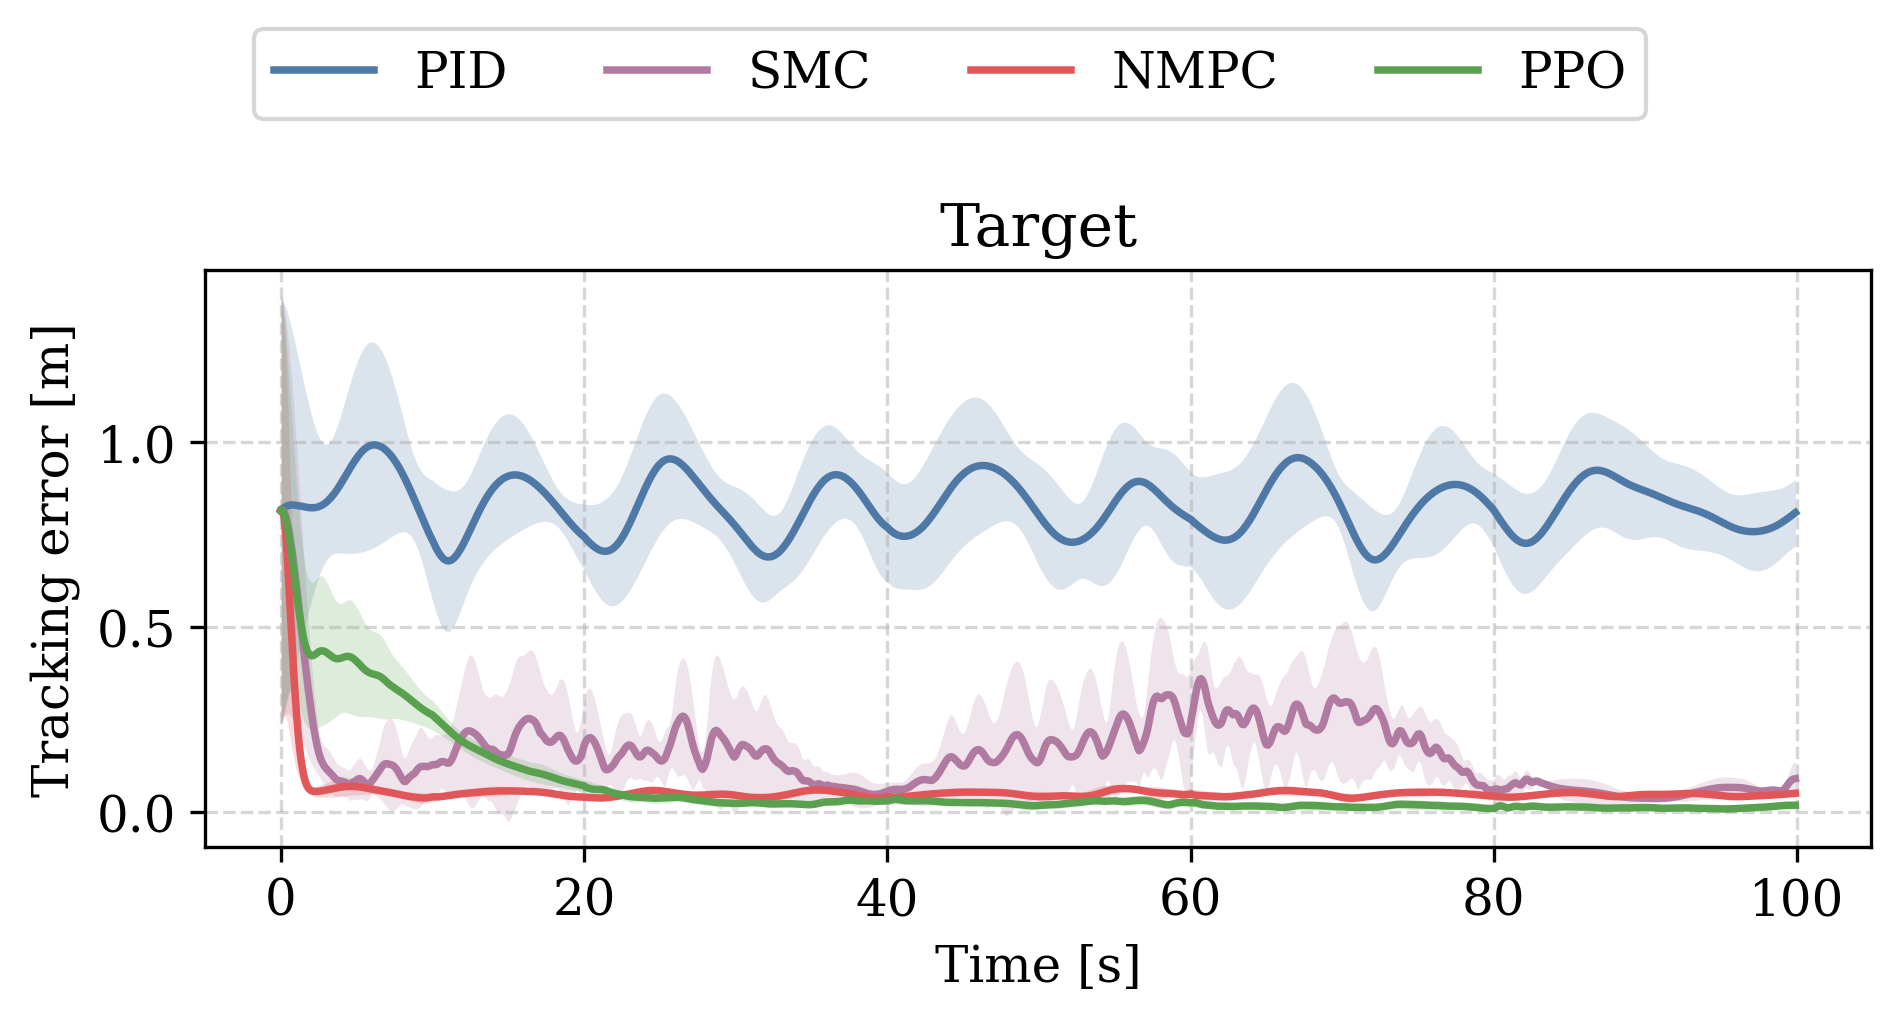
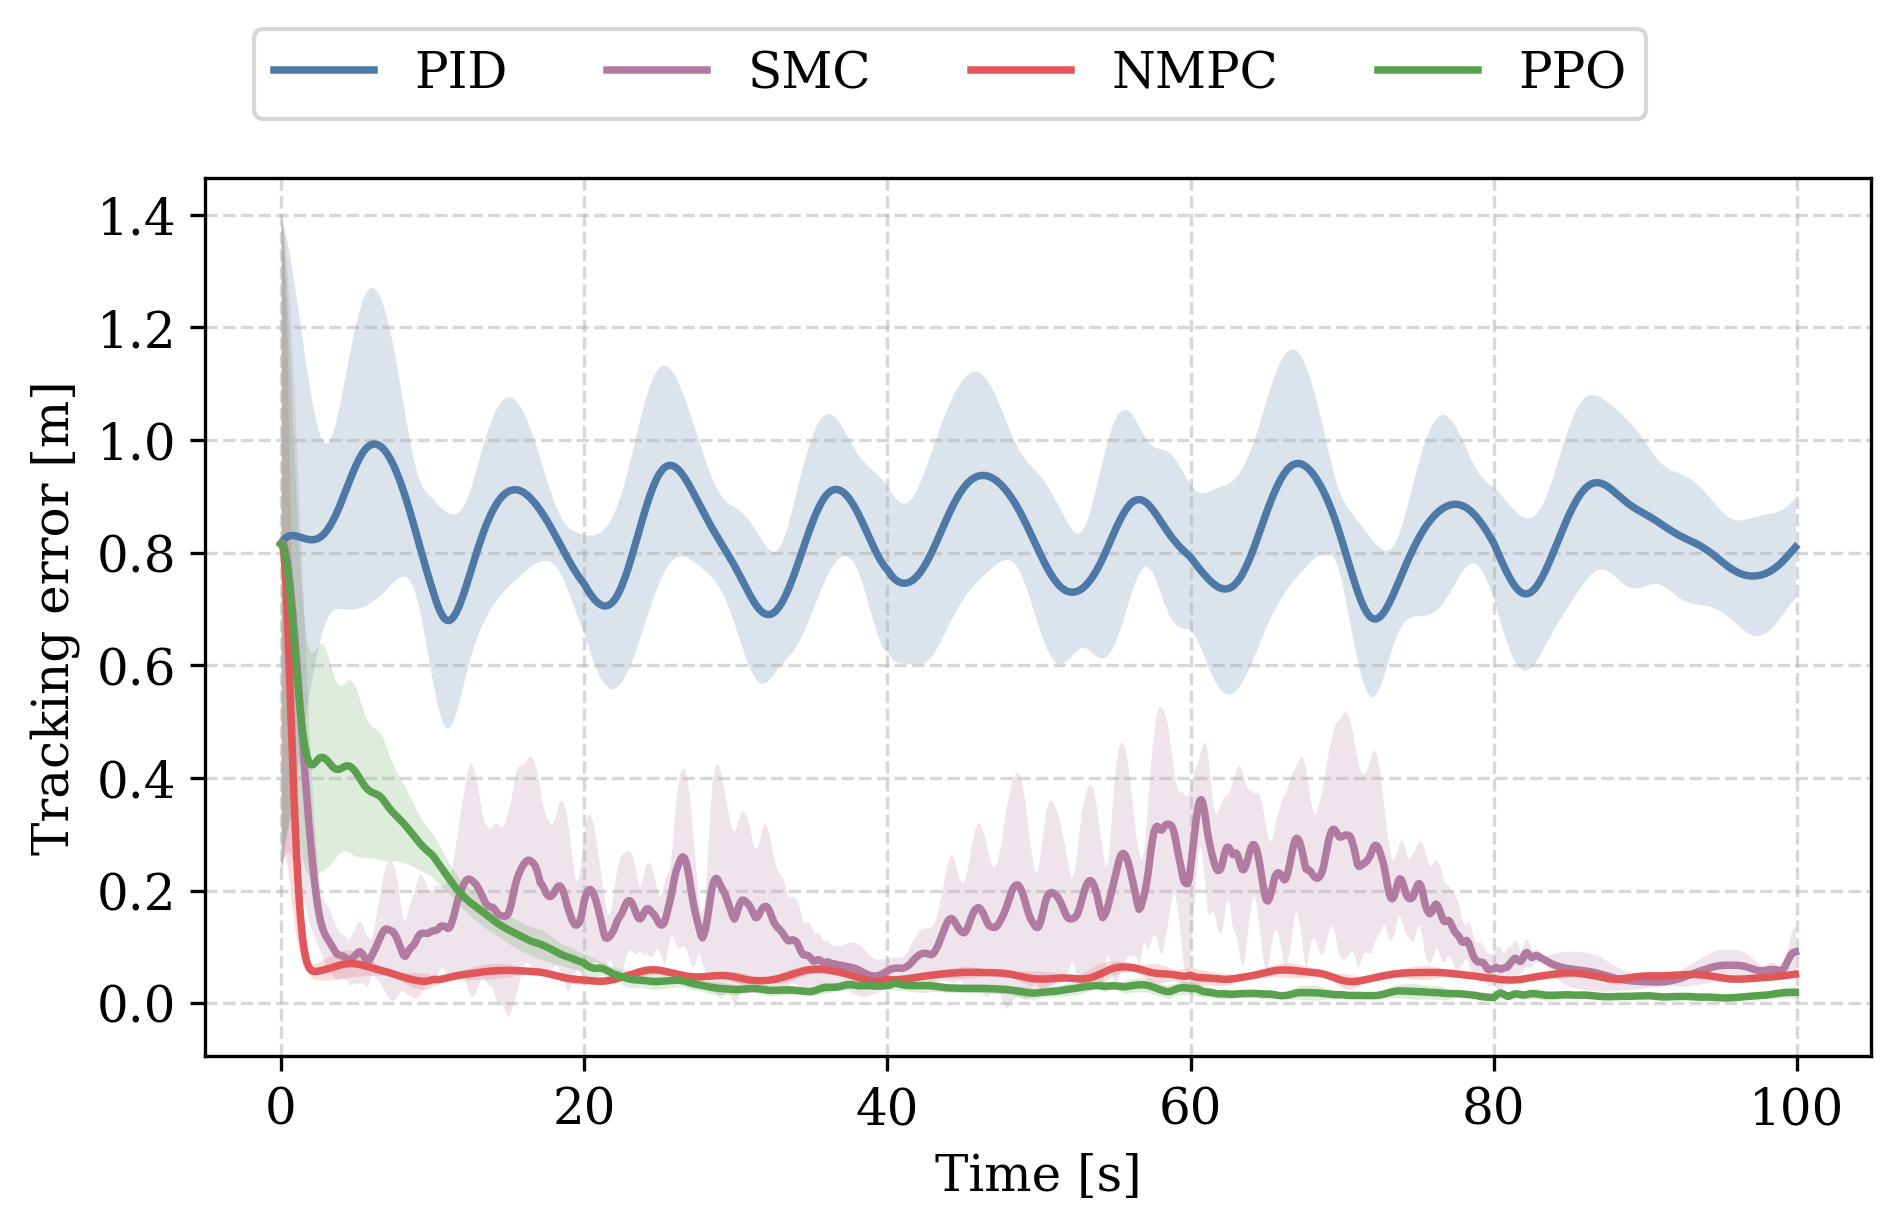
Refactor code structure for improved readability and maintainability

diff --git a/bluerov2_gym/workflows/plotting/article/plot_yaw_error.py b/bluerov2_gym/workflows/plotting/article/plot_yaw_error.py
@@ -1,0 +1,64 @@
+"""Absolute wrapped yaw error: mean and population standard deviation in degrees."""
+from pathlib import Path
+
+import matplotlib.pyplot as plt
+import numpy as np
+import pandas as pd
+
+from . import config as defaults
+from .plot_tracking_error import aggregate_runs
+from .run_data import iter_csv_runs
+
+
+def main(settings=None):
+    settings = settings or {}
+    output = Path(settings.get('output_dir', defaults.OUTPUT_DIR))
+    tables = Path(settings.get('table_dir', defaults.TABLE_DIR))
+    output.mkdir(parents=True, exist_ok=True)
+    tables.mkdir(parents=True, exist_ok=True)
+    scenarios = {k: Path(v) for k, v in settings.get('scenarios', defaults.SCENARIOS).items()}
+    selected = {c.lower() for c in settings.get('controllers', defaults.CONTROLLERS)}
+    controllers = {k: v for k, v in defaults.CONTROLLERS.items() if k.lower() in selected}
+    exported = []
+    with plt.rc_context({'font.family': 'serif', 'font.size': 12, 'pdf.fonttype': 42}):
+        fig, axes = plt.subplots(len(scenarios), 1,
+                                 figsize=(defaults.FIGSIZE[0], defaults.FIGSIZE[1]*len(scenarios)),
+                                 sharex=True, sharey=True, squeeze=False)
+        for ax, (scenario, folder) in zip(axes[:, 0], scenarios.items()):
+            for controller, info in controllers.items():
+                runs = []
+                for path, repetition, df in iter_csv_runs(
+                        folder, info['prefix'], {'time', 'yaw_error'},
+                        trajectories=settings.get('trajectory_names')):
+                    run = df[['time', 'yaw_error']].copy()
+                    angle = run['yaw_error'].to_numpy(dtype=float)
+                    # Magnitudes cannot cancel across positive/negative errors;
+                    # wrap first so +/-pi crossings never appear as 360 degrees.
+                    run['yaw_error'] = np.degrees(np.abs(np.arctan2(np.sin(angle), np.cos(angle))))
+                    run.attrs['run_id'] = f'{path.stem}_rep{repetition}'
+                    runs.append(run)
+                result = aggregate_runs(runs, column='yaw_error')
+                if result is None:
+                    continue
+                time, mean, std = result
+                ax.plot(time, mean, color=info['color'], linewidth=defaults.LINE_WIDTH, label=controller)
+                ax.fill_between(time, np.maximum(0., mean-std), np.minimum(180., mean+std),
+                                color=info['color'], alpha=defaults.BAND_ALPHA, linewidth=0)
+                exported.extend(dict(scenario=scenario, controller=controller, time_s=float(t),
+                                     mean_absolute_yaw_error_deg=float(m), std_absolute_yaw_error_deg=float(s))
+                                for t, m, s in zip(time, mean, std))
+            ax.set_ylabel('Absolute yaw error [deg]')
+            ax.set_ylim(bottom=0.)
+            ax.grid(True, linestyle='--', alpha=.5)
+        if not exported:
+            plt.close(fig)
+            raise ValueError('No yaw_error samples found for the selected controllers/trajectories.')
+        axes[-1, 0].set_xlabel('Time [s]')
+        handles, labels = axes[0, 0].get_legend_handles_labels()
+        fig.legend(handles, labels, loc='upper center', ncol=max(1, len(labels)),
+                   frameon=True, bbox_to_anchor=(.5, .995))
+        fig.tight_layout(rect=(0, 0, 1, .90 if len(scenarios) == 1 else .95))
+        for extension in ['png', 'pdf']:
+            fig.savefig(output/f'yaw_error_mean_std.{extension}', dpi=defaults.DPI, bbox_inches='tight')
+        plt.close(fig)
+    pd.DataFrame(exported).to_csv(tables/'yaw_error_mean_std.csv', index=False)

diff --git a/bluerov2_gym/workflows/plotting/article/plot_tracking_error.py b/bluerov2_gym/workflows/plotting/article/plot_tracking_error.py
@@ -6,7 +6,7 @@ import matplotlib.pyplot as plt
 
 from .config import (
     SCENARIOS, CONTROLLERS, OUTPUT_DIR,
-    DPI, LINE_WIDTH, BAND_ALPHA,
+    DPI, LINE_WIDTH, BAND_ALPHA, FIGSIZE,
 )
 from .run_data import iter_csv_runs
 
@@ -47,7 +47,7 @@ def load_controller_runs(folder, prefix):
     return runs
 
 
-def aggregate_runs(runs):
+def aggregate_runs(runs, column='tracking_error_m'):
     if not runs:
         return None
 
@@ -55,7 +55,7 @@ def aggregate_runs(runs):
 
     for index, df in enumerate(runs):
         current = (
-            df.groupby("time", as_index=True)["tracking_error_m"]
+            df.groupby("time", as_index=True)[column]
             .mean()
             .rename(df.attrs.get("run_id", f"run_{index}"))
         )
@@ -74,7 +74,7 @@ def main(settings=None):
     configure(settings)
     fig, axes = plt.subplots(
         len(SCENARIOS), 1,
-        figsize=(6.5, 3.5 * len(SCENARIOS)),
+        figsize=(FIGSIZE[0], FIGSIZE[1] * len(SCENARIOS)),
         sharex=True,
         sharey=True,
     )
@@ -107,7 +107,6 @@ def main(settings=None):
                 linewidth=0,
             )
 
-        ax.set_title(scenario)
         ax.set_ylabel("Tracking error [m]")
         ax.grid(True, linestyle="--", alpha=0.5)
 
@@ -123,7 +122,7 @@ def main(settings=None):
         bbox_to_anchor=(0.5, 0.995),
     )
 
-    fig.tight_layout(rect=(0, 0, 1, 0.86 if len(SCENARIOS) == 1 else 0.95))
+    fig.tight_layout(rect=(0, 0, 1, 0.90 if len(SCENARIOS) == 1 else 0.95))
 
     for extension in ("pdf", "png"):
         path = OUTPUT_DIR / f"path_tracking_error_mean_std.{extension}"

diff --git a/bluerov2_gym/workflows/plotting/registry.py b/bluerov2_gym/workflows/plotting/registry.py
@@ -9,6 +9,7 @@ class PlotSpec:
 
 PLOTS = {
     'tracking_error': PlotSpec('article.plot_tracking_error','article',('time','tracking_error_m')),
+    'yaw_error': PlotSpec('article.plot_yaw_error','article',('time','yaw_error')),
     'rmse': PlotSpec('article.plot_rmse','article',('time','tracking_error_m')),
     'cpu_time': PlotSpec('article.plot_cpu_time','article',('time','controller_cpu_time_s')),
     'energy': PlotSpec('article.plot_energy','article',('time',*[f'T{i}' for i in range(1,7)])),
@@ -29,8 +30,8 @@ PLOTS = {
     'ftc': PlotSpec('ftc.comparison','ftc',('x','y','x_ref','y_ref','tracking_error_m')),
 }
 SUITES = {
-    'article': ('tracking_error','rmse','cpu_time','energy','pareto'),
-    'article_by_trajectory': ('tracking_error','rmse','cpu_time','energy','pareto'),
+    'article': ('tracking_error','yaw_error','rmse','cpu_time','energy','pareto'),
+    'article_by_trajectory': ('tracking_error','yaw_error','rmse','cpu_time','energy','pareto'),
     'stationkeeping': ('stationkeeping','station_cost'),
     'trajectories': ('trajectory_spatial',),
     'single_policy': ('single_policy',),

diff --git a/bluerov2_gym/workflows/cli.py b/bluerov2_gym/workflows/cli.py
@@ -137,7 +137,7 @@ def plot(args):
     if args.scenario:settings['scenario']=args.scenario
     if args.repetition_id is not None:settings['repetition_id']=args.repetition_id
     manager=PlotManager(args.run,settings)
-    result=manager.generate(args.plots) if args.plots else manager.generate_suite(args.suite or settings.get('suite','article'))
+    result=manager.generate(args.plots, per_trajectory=getattr(args, 'per_trajectory', False)) if args.plots else manager.generate_suite(args.suite or settings.get('suite','article'))
     print(f'Generated {len(result)} figure files.')
 
 
@@ -159,6 +159,7 @@ def main(argv=None):
         p.add_argument('--config',type=Path)
         p.add_argument('--suite',default='training' if name=='plot-training' else None)
         p.add_argument('--plots',nargs='+')
+        p.add_argument('--per-trajectory',action='store_true',help='Generate selected article plots separately for each trajectory.')
         p.add_argument('--scenario')
         p.add_argument('--repetition-id',type=int)
     checkpoints=commands.add_parser('evaluate-checkpoints')

diff --git a/docs/evaluation.md b/docs/evaluation.md
@@ -172,3 +172,18 @@ separadamente por trajetória, usando apenas suas repetições. O estilo e as
 fórmulas históricos são mantidos; a seleção de cenários agora aceita target
 ou outros nomes, além de Moderate/Severe. Os arquivos ficam em figures/article
 do run, e as tabelas correspondentes em tables/article.
+
+## Somente erro de yaw
+
+```bash
+bluerov plot --run artifacts/evaluation/physics_wave_curriculum_comparison --plots yaw_error
+bluerov plot --run artifacts/evaluation/physics_wave_curriculum_comparison --plots yaw_error --per-trajectory
+```
+
+O primeiro comando gera o resumo agregado; o segundo gera uma figura por
+trajetória, sem refazer os outros gráficos. O erro é o módulo do menor erro
+angular, convertido de radianos para graus: abs(atan2(sin(e), cos(e))). Curva
+média e banda de um desvio-padrão populacional, com a banda limitada a [0,180]°.
+Isso evita cancelamento entre erros de sinais opostos e artefatos em +/-pi.
+PNG/PDF: figures/article/yaw_error_mean_std.*; com --per-trajectory, dentro
+da subpasta da trajetória. A tabela correspondente fica em tables/article.
